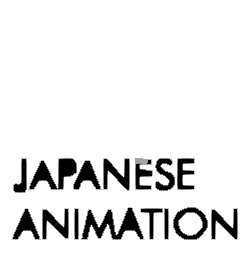
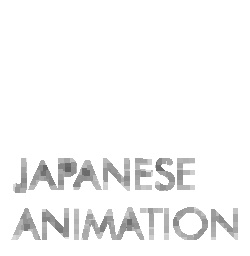
success process and show result to frontend

Changed region(s): [[0.028, 0.7812, 0.952, 0.9375], [0.028, 0.5938, 0.784, 0.75]]

diff --git a/main.py b/main.py
@@ -30,9 +30,8 @@ class FileUpload(BaseModel):
     files: List[bytes]  # Use bytes for file data
     
 def inpainter():
-
     image = imread("resources/image.jpg")
-    mask = imread("resources/mask.jpg", as_gray=True)
+    mask = imread("resources/mask5.jpg", as_gray=True)
 
     output_image = Inpainter(
         image,
@@ -53,7 +52,7 @@ async def create_upload_file(mode: Annotated[str, Form()], image : UploadFile = 
         inpainter()
         print("received!")
     elif mode == "canny":
-        # show_image()
+        inpainter()
         print("received!")
 
     return {"filename": image.filename}
@@ -67,15 +66,21 @@ def serve():
     return """
     <html>
         <head>
-            <title>Helppppppp!</title>
+            <title>Process Result</title>
         </head>
         <body>
-        <h1>Here's your image</h1>
-        <img src="resources/image.jpg">
+            <div>
+                <h1>Here's your image</h1>
+            </div>
+            <img src="resources/imageEdit.jpg">
         </body>
+        
         <style>
         h1{
             color:#FF3333
+        }
+        div{
+            backgroundColor:#000055
         }
         </style>
     </html>

diff --git a/inpainterModule.py b/inpainterModule.py
@@ -52,6 +52,7 @@ class Inpainter():
         return self.working_image
 
     def _validate_inputs(self):
+        print("I received and validating")
         print(f"image.shape = {self.image.shape[:2]} mask.shape = {self.mask.shape}")
         if self.image.shape[:2] != self.mask.shape:
             raise AttributeError('mask and image must be of the same size')
